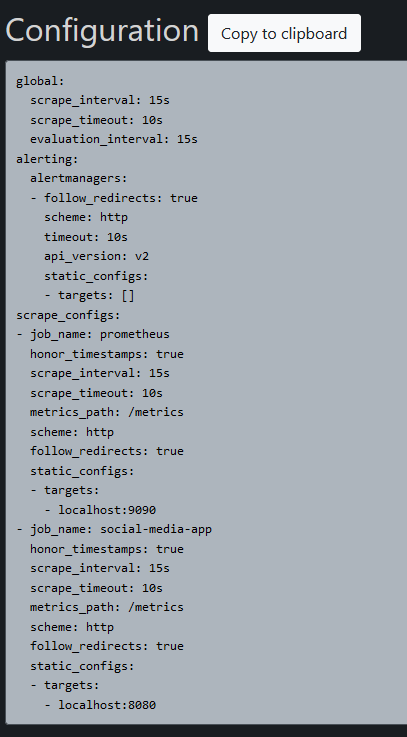
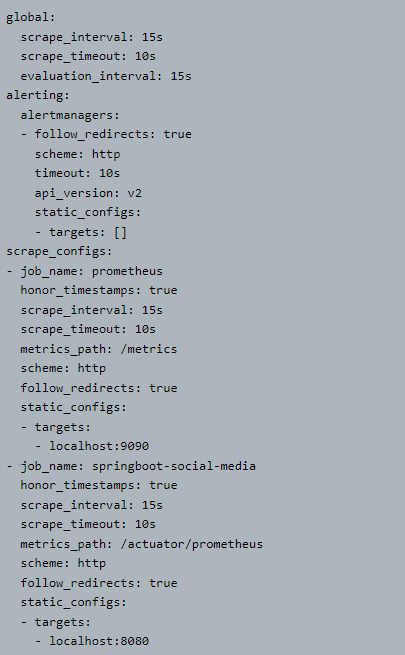
added graph

Changed region(s): [[0.0, 0.0, 1.0, 1.0], [0.4148, 0.2443, 0.4741, 0.2748]]

diff --git a/README.md b/README.md
@@ -20,12 +20,38 @@ Build container with app and database
 
 ## Prometheus configuration yml
 
+## Maven Dependencies
+
+            <dependency>
+			<groupId>org.springframework.boot</groupId>
+			<artifactId>spring-boot-starter-actuator</artifactId>
+			<version>2.6.2</version>
+		</dependency>
+		<dependency>
+			<groupId>io.micrometer</groupId>
+			<artifactId>micrometer-registry-prometheus</artifactId>
+			<version>1.8.2</version>
+		</dependency>
+
+## Application.properties
+
+    management.endpoint.prometheus.enabled=true
+    
+    management.endpoints.web.exposure.include=*
+    
+    management.metrics.export.prometheus.enabled=true
+
+## Configuration
+
 ![](./img/pro,Config.PNG)
 
 ## Prometheus Status and Service Discovery
 
 ![](./img/promStat.PNG)
 ![](./img/discovery.PNG)
+![](./img/Run.PNG)
 
-## Make an Insertion Post request
+## Grafana
+
+![](./img/Result1.PNG)
 
